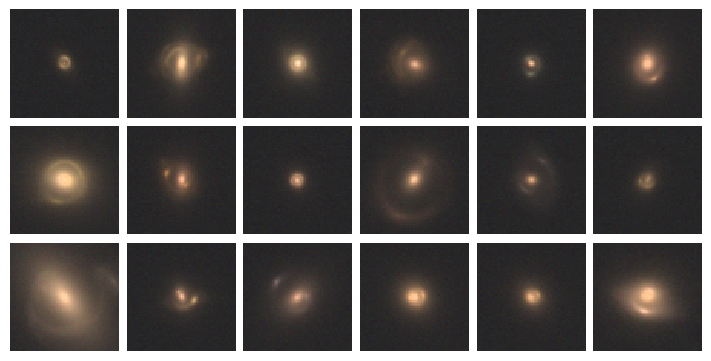
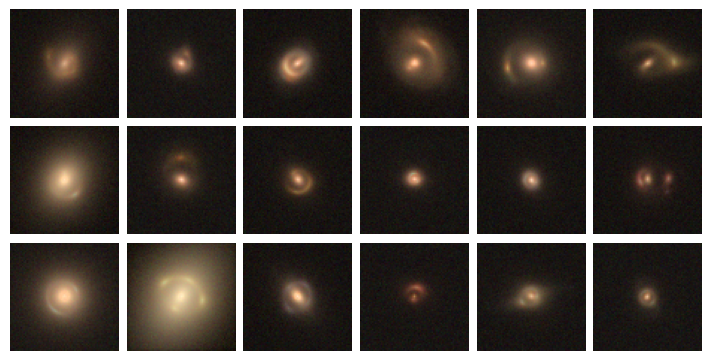
update readme

diff --git a/README.md b/README.md
@@ -4,18 +4,15 @@
 [![Documentation Status](https://readthedocs.org/projects/mejiro/badge/?version=latest)](https://mejiro.readthedocs.io/en/latest/)
 [![ApJ](https://img.shields.io/badge/ApJ-10.3847/1538--4357/adc24f-3c5492)](https://doi.org/10.3847/1538-4357/adc24f)
 [![arXiv](https://img.shields.io/badge/arXiv-2506.03390-b31b1b.svg)](https://arxiv.org/abs/2506.03390)
-[![DOI](https://zenodo.org/badge/DOI/10.5281/zenodo.15377388.svg)](https://doi.org/10.5281/zenodo.15377388)
-[![DOI](https://zenodo.org/badge/DOI/10.5281/zenodo.14216839.svg)](https://doi.org/10.5281/zenodo.14216839)
 
-`mejiro` ("MEH-ji-roe" or "meh-JI-roe")[^1] is a pipeline to simulate space telescope images of
+`mejiro`[^1] is a pipeline to simulate space telescope images of
 galaxy-galaxy strong gravitational lenses built
-on [SLSim](https://github.com/LSST-strong-lensing/slsim), [lenstronomy](https://github.com/lenstronomy/lenstronomy), [pyHalo](https://github.com/dangilman/pyHalo),
-and [GalSim](https://github.com/GalSim-developers/GalSim).
+on [SLSim](https://github.com/LSST-strong-lensing/slsim), [lenstronomy](https://github.com/lenstronomy/lenstronomy), [pyHalo](https://github.com/dangilman/pyHalo), [GalSim](https://github.com/GalSim-developers/GalSim), and [romanisim](https://github.com/spacetelescope/romanisim). It can produce detailed simulated images and can scale to large datasets suitable for neural networks. The primary science case is characterizing dark matter substructure via galaxy-scale strong gravitational lensing.
 
 ![Simulated Roman images of strong lenses](images/mosaic.png)
 
 > [!NOTE]  
-> `mejiro` will be used to generate >100k simulated Roman images for the [**Roman Strong Lens Data Challenge**](https://roman-data-challenge.readthedocs.io/en/latest/) in 2026.
+> `mejiro` is used to generate large datasets of simulated Roman images for the [**Roman Strong Lens Data Challenge**](https://roman-data-challenge.readthedocs.io/en/latest/).
 
 # Installation
 